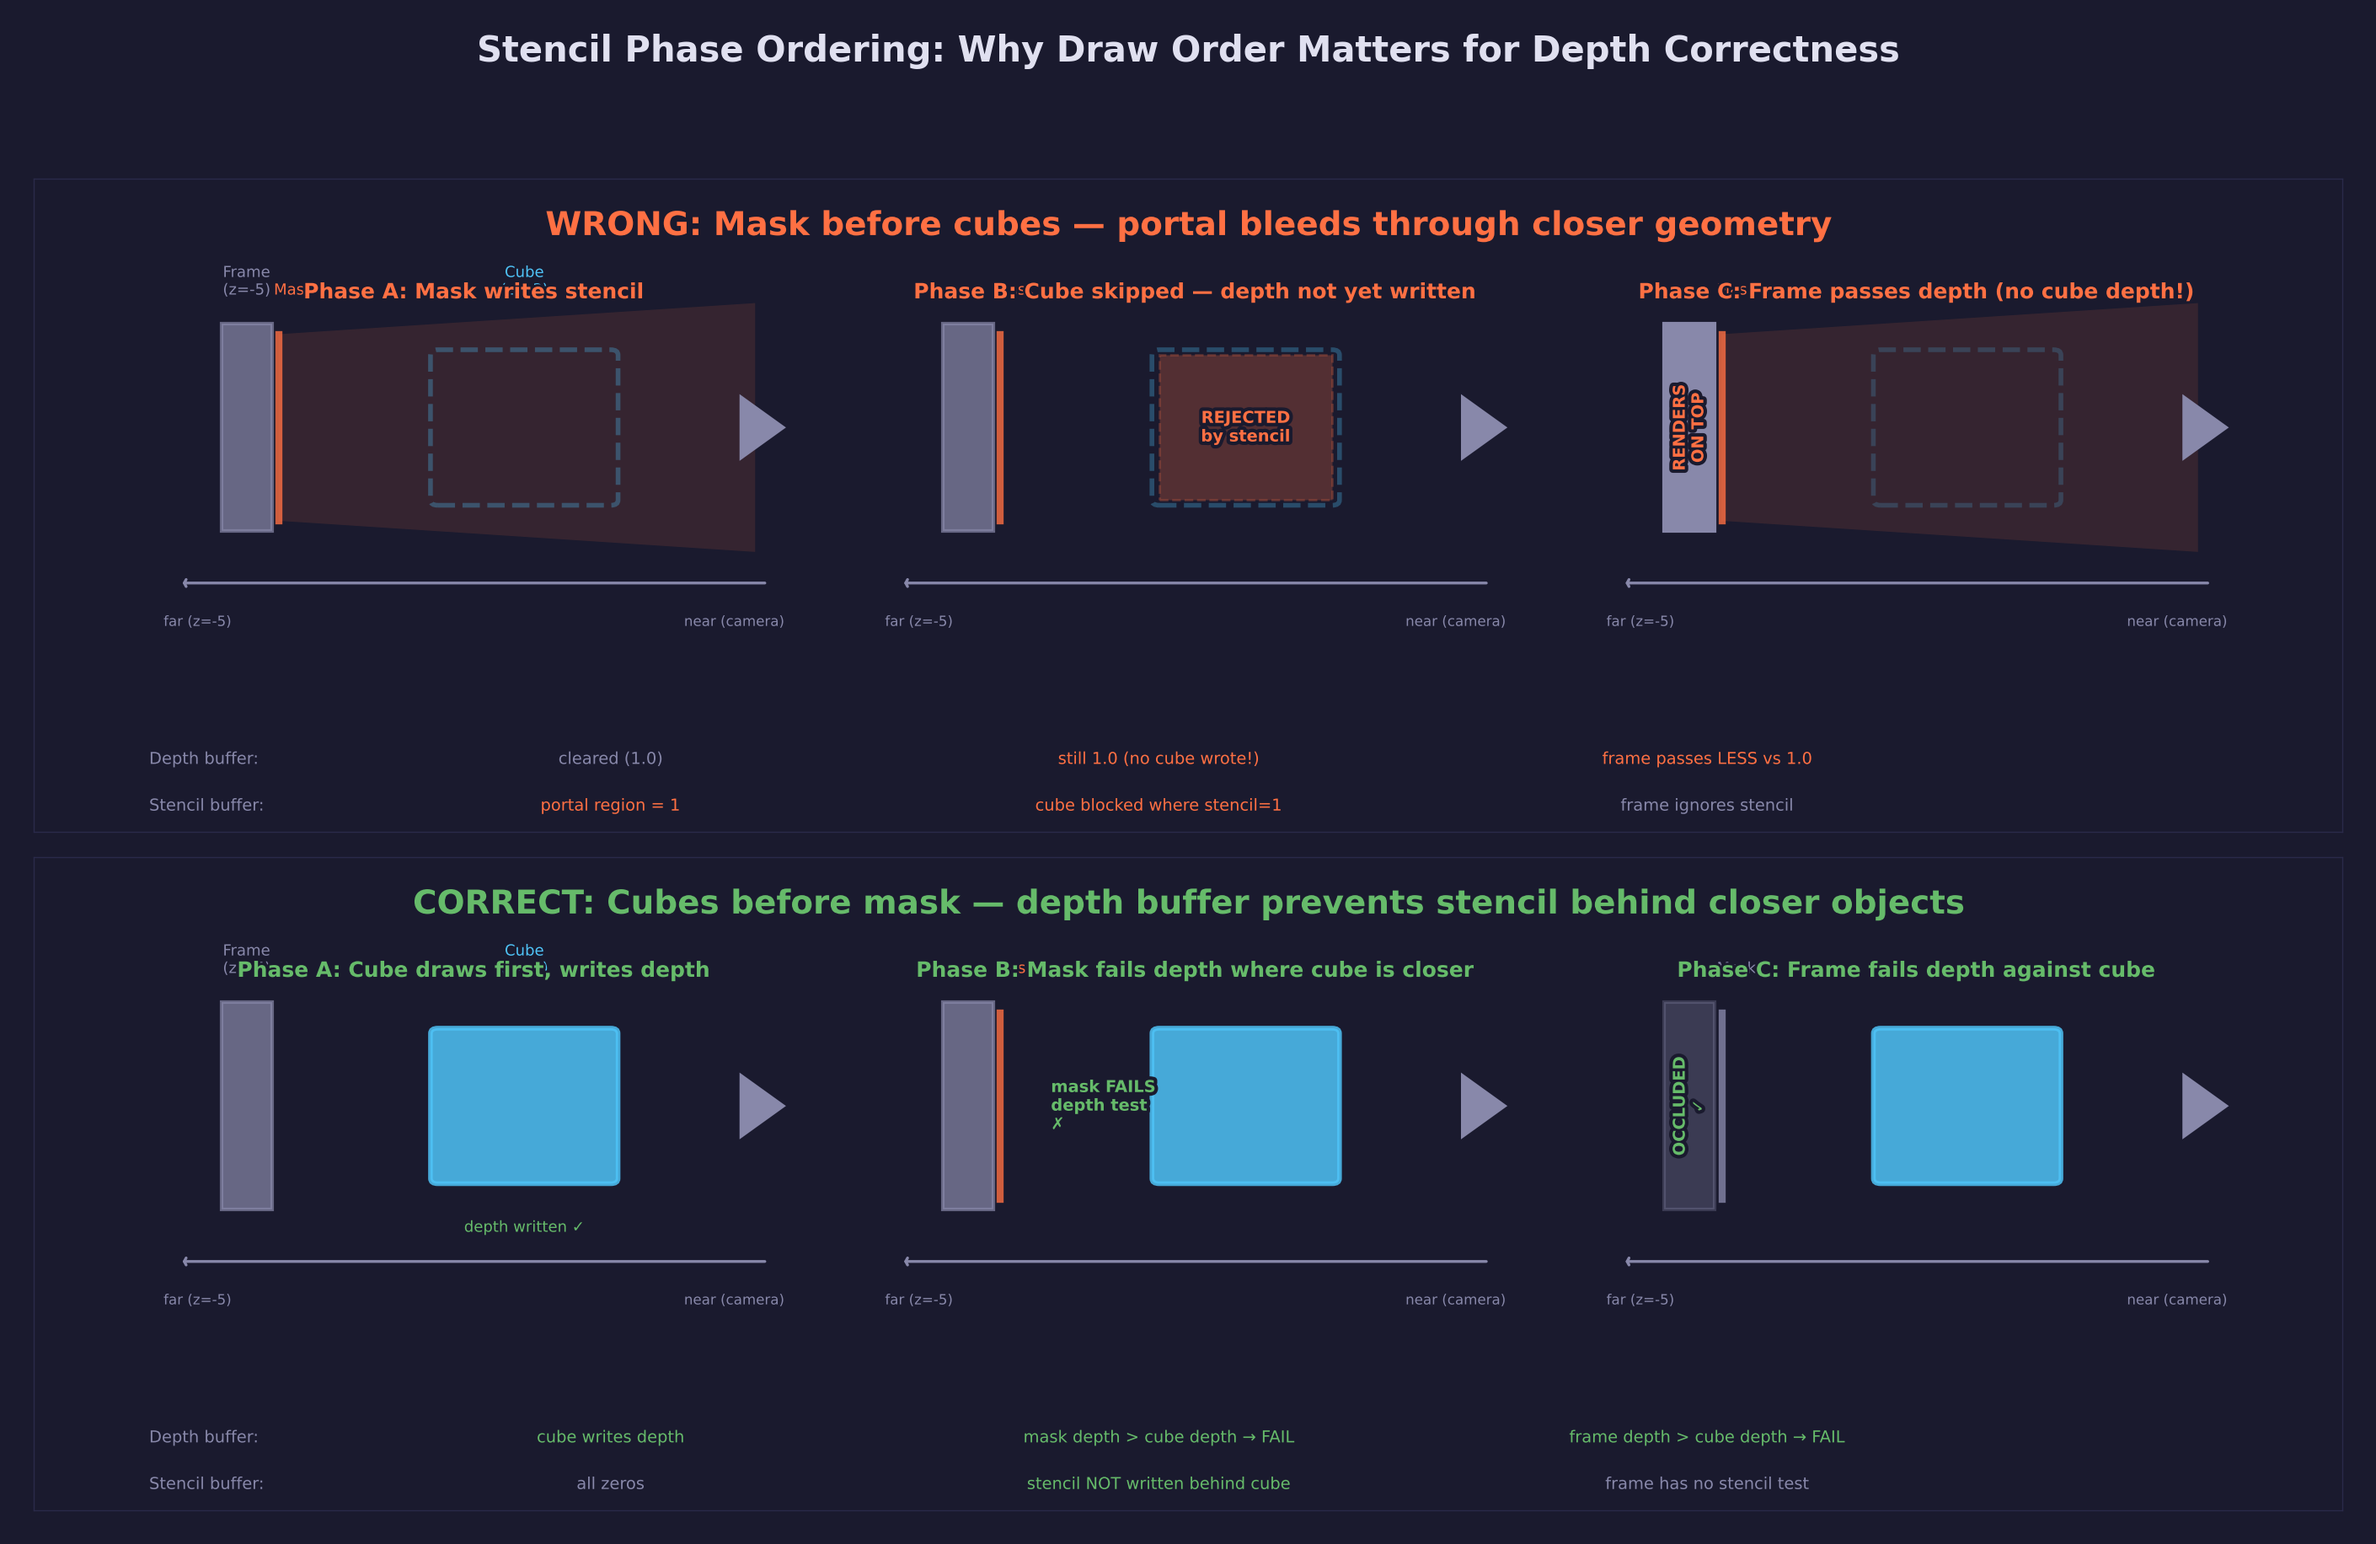
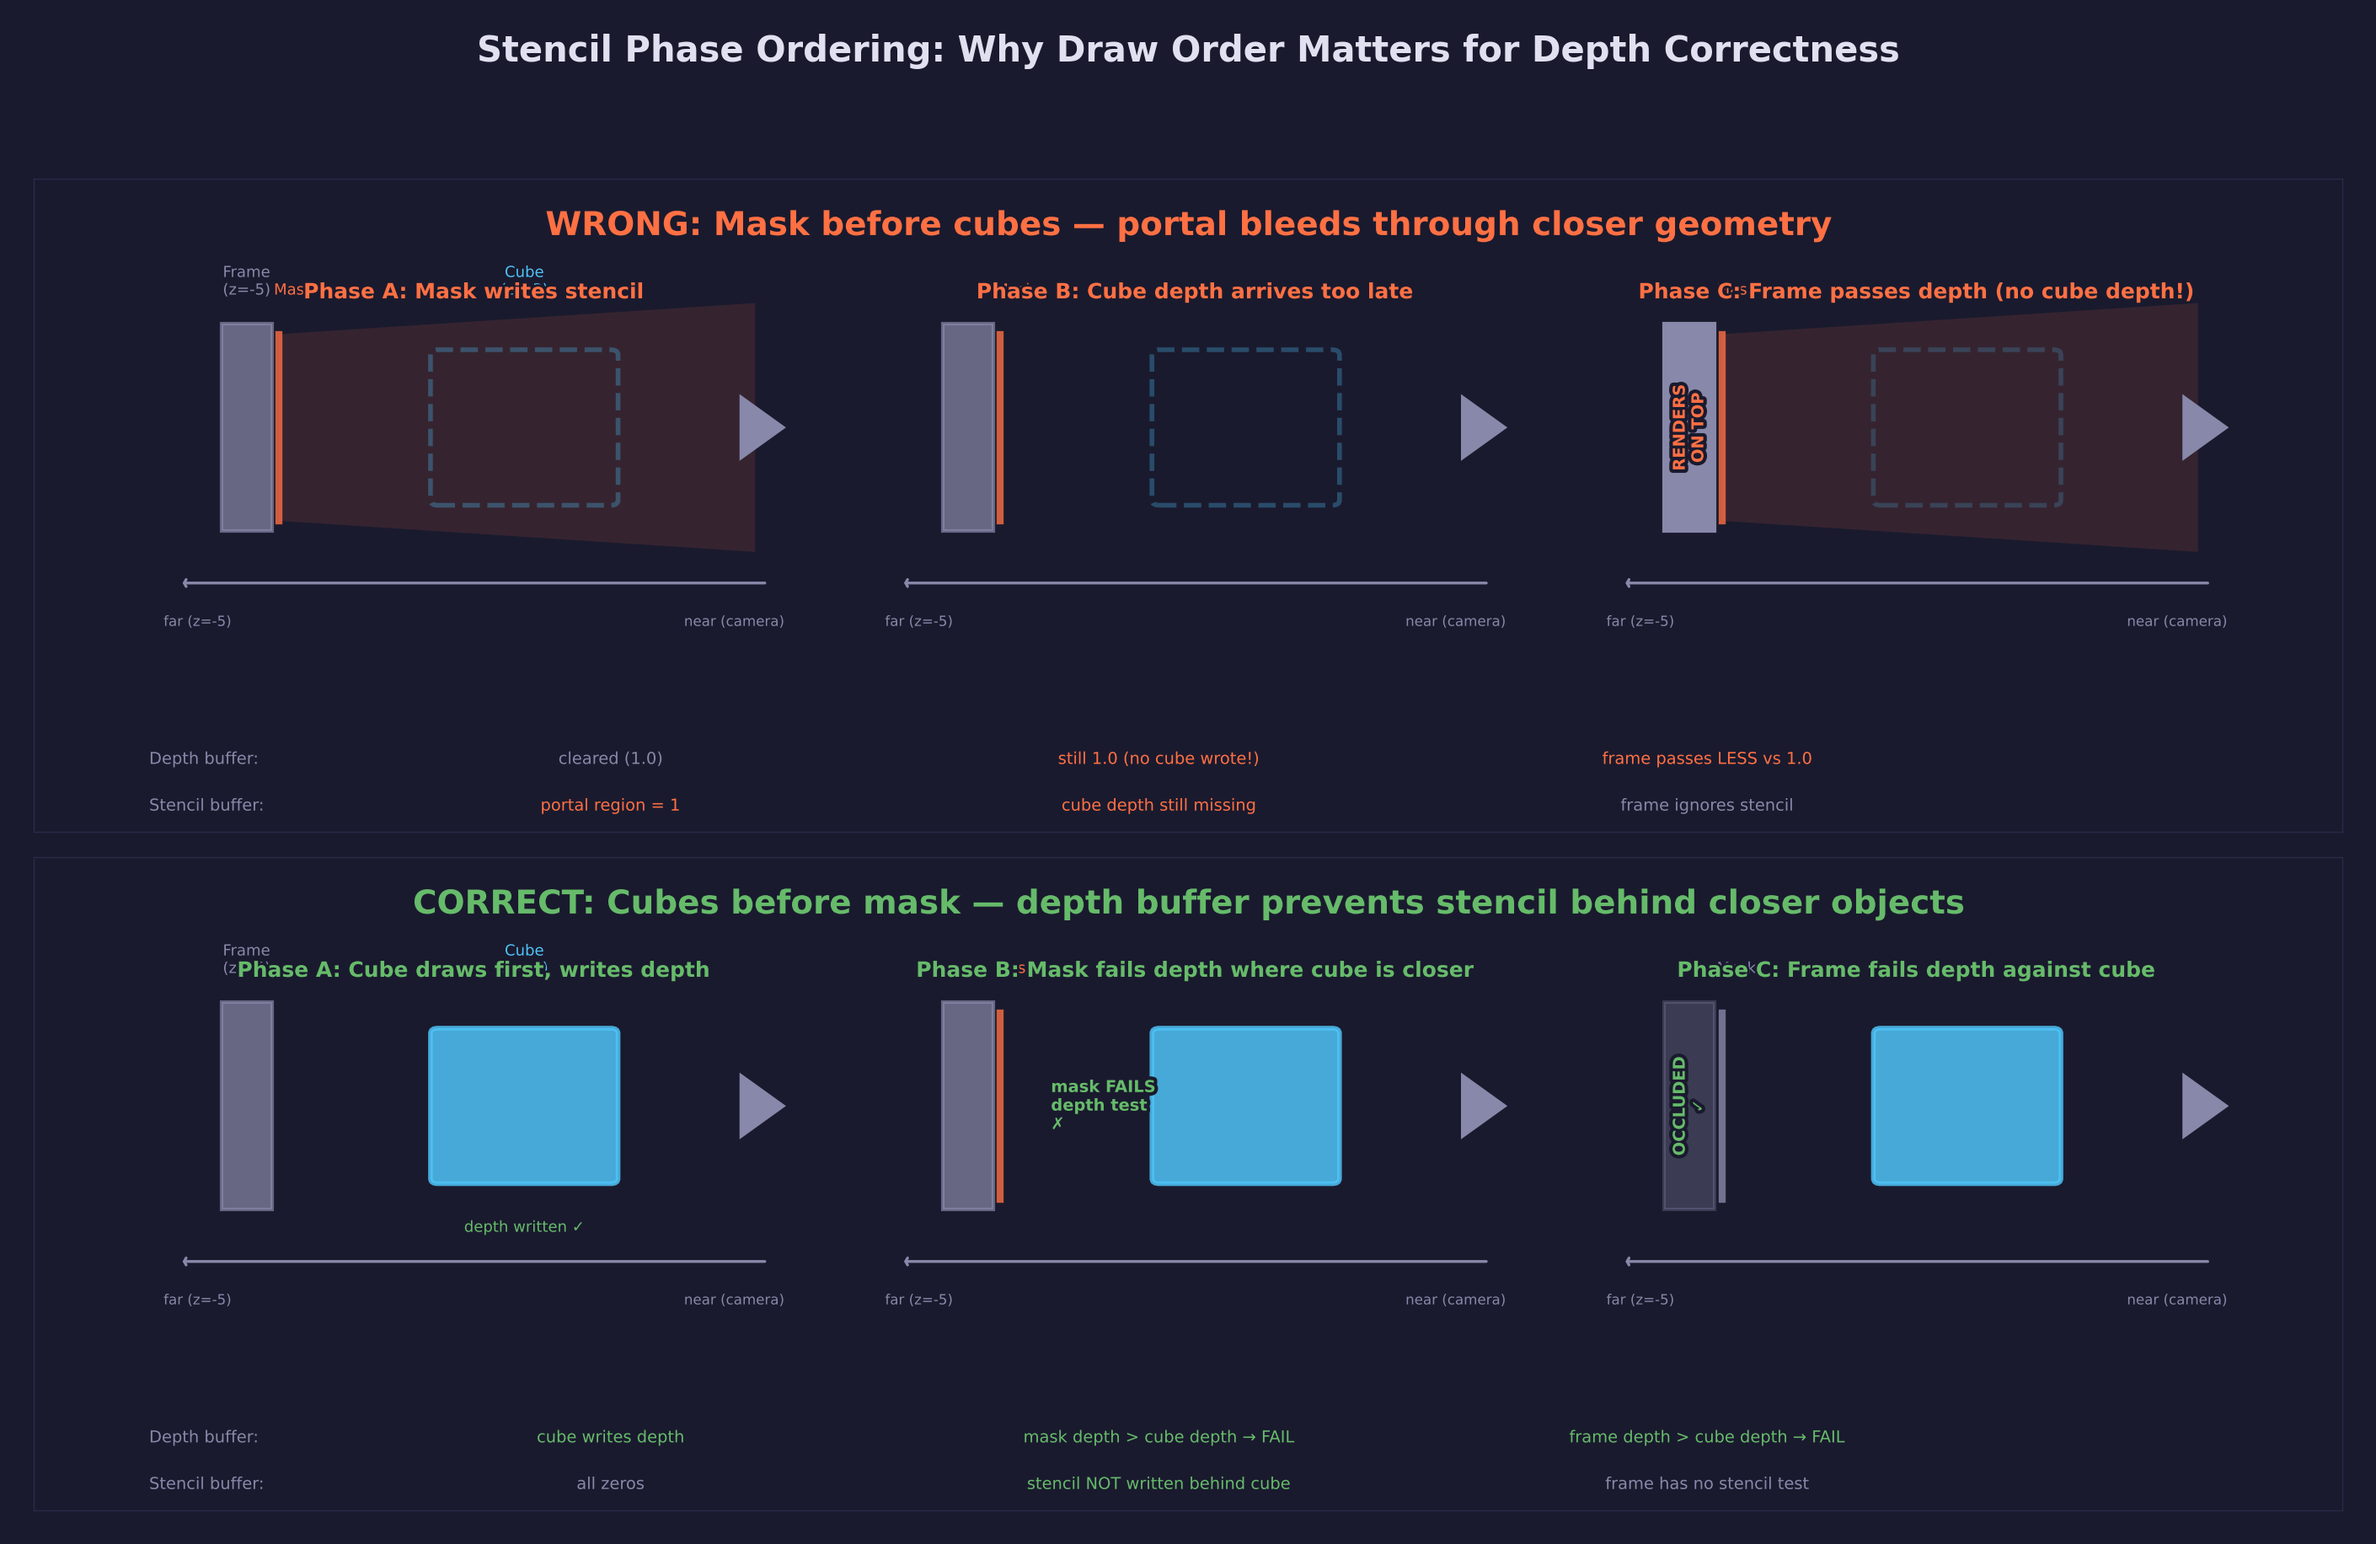
Address PR #179 round 2: pipeline counts, LaTeX, diagram labels
- PLAN.md: Fix pipeline comment to "9 scene + 1 debug = 10"; note
  outline passes reuse scene.vert.hlsl
- README.md: Replace \enspace with \text{} spacing in math block;
  fix pipeline count to "9 scene + 1 debug = 10 total"
- gpu_diagrams.py: Fix grid floor stencil label to "stencil!=1 then
  stencil==1"; remove show_rejected from phase ordering Phase B to
  focus on depth ordering; update legend text

Changed region(s): [[0.4057, 0.1867, 0.6241, 0.3422], [0.4369, 0.4978, 0.5305, 0.5289]]

diff --git a/scripts/forge_diagrams/gpu_diagrams.py b/scripts/forge_diagrams/gpu_diagrams.py
@@ -17101,7 +17101,7 @@ def diagram_draw_order_stencil():
         ("Main\nCubes", STYLE["accent1"], "depth only\nno stencil", 3.3),
         ("Portal\nMask", STYLE["accent2"], "stencil=1\nno color", 5.4),
         ("Portal\nWorld", STYLE["accent2"], "stencil==1", 7.5),
-        ("Grid\nFloor", STYLE["accent3"], "stencil !=\nand ==", 9.6),
+        ("Grid\nFloor", STYLE["accent3"], "stencil!=1\nthen stencil==1", 9.6),
         ("Portal\nFrame", STYLE["accent4"], "depth only", 11.7),
         ("Outline\nPass", STYLE["warn"], "replace\nthen !=", 13.8),
         ("Debug\nOverlay", STYLE["text_dim"], "if toggled", 15.9),
@@ -17546,10 +17546,9 @@ def diagram_phase_ordering():
                 "cube_z": 2,
             },
             {
-                "label": "Phase B: Cube skipped — depth not yet written",
+                "label": "Phase B: Cube depth arrives too late",
                 "label_color": STYLE["accent2"],
                 "show_mask": True,
-                "show_rejected": True,
                 "cube_style": "dashed",
                 "cube_alpha": 0.3,
                 "cube_z": 2,
@@ -17576,7 +17575,7 @@ def diagram_phase_ordering():
         ],
         stencil_bar=[
             ("portal region = 1", STYLE["accent2"]),
-            ("cube blocked where stencil=1", STYLE["accent2"]),
+            ("cube depth still missing", STYLE["accent2"]),
             ("frame ignores stencil", STYLE["text_dim"]),
         ],
     )

diff --git a/lessons/gpu/34-stencil-testing/README.md b/lessons/gpu/34-stencil-testing/README.md
@@ -85,7 +85,7 @@ before checking depth:
 The comparison evaluates:
 
 $$
-(\text{buffer}\_\text{value} \mathbin{\&} \text{compare}\_\text{mask}) \enspace \text{COMPARE}\_\text{OP} \enspace (\text{reference} \mathbin{\&} \text{compare}\_\text{mask})
+(\text{buffer}\_\text{value} \mathbin{\&} \text{compare}\_\text{mask}) \text{ COMPARE}\_\text{OP } (\text{reference} \mathbin{\&} \text{compare}\_\text{mask})
 $$
 
 where `buffer_value` is the current stencil value at this pixel, `reference`
@@ -264,8 +264,8 @@ before anything that tests against it. Outline writes must happen after main
 world rendering so that the stencil value 2 does not interfere with the portal
 test (which uses value 1).
 
-This lesson creates **9 graphics pipelines** for the main scene pass alone
-(plus 1 for shadows and 1 for the debug overlay). This pipeline state
+This lesson creates **9 graphics pipelines** for scene rendering (including
+shadows) plus **1 for the debug overlay** (10 total). This pipeline state
 explosion is inherent to stencil-based effects: each combination of stencil
 test, stencil operation, color write enable, and depth write enable requires
 a separate pipeline object.

diff --git a/lessons/gpu/34-stencil-testing/PLAN.md b/lessons/gpu/34-stencil-testing/PLAN.md
@@ -83,7 +83,7 @@ Pass 3: Debug overlay           (if toggled, fullscreen stencil visualization)
 | shadow.frag.hlsl          | Fragment | Empty (depth-only, required by SDL GPU)       |
 | grid.vert.hlsl            | Vertex   | Grid floor vertex transform                   |
 | grid.frag.hlsl            | Fragment | Procedural grid + shadow + tint_color uniform |
-| outline.frag.hlsl         | Fragment | Solid outline color output                    |
+| outline.frag.hlsl         | Fragment | Solid outline color output (reuses scene.vert) |
 | debug_overlay.vert.hlsl   | Vertex   | Fullscreen quad from SV_VertexID              |
 | debug_overlay.frag.hlsl   | Fragment | Sample debug texture with transparency        |
 
@@ -149,7 +149,7 @@ typedef struct app_state {
     SDL_Window    *window;
     SDL_GPUDevice *device;
 
-    /* Pipelines (9) */
+    /* Pipelines (9 scene + 1 debug = 10) */
     SDL_GPUGraphicsPipeline *shadow_pipeline;
     SDL_GPUGraphicsPipeline *mask_pipeline;
     SDL_GPUGraphicsPipeline *portal_pipeline;
